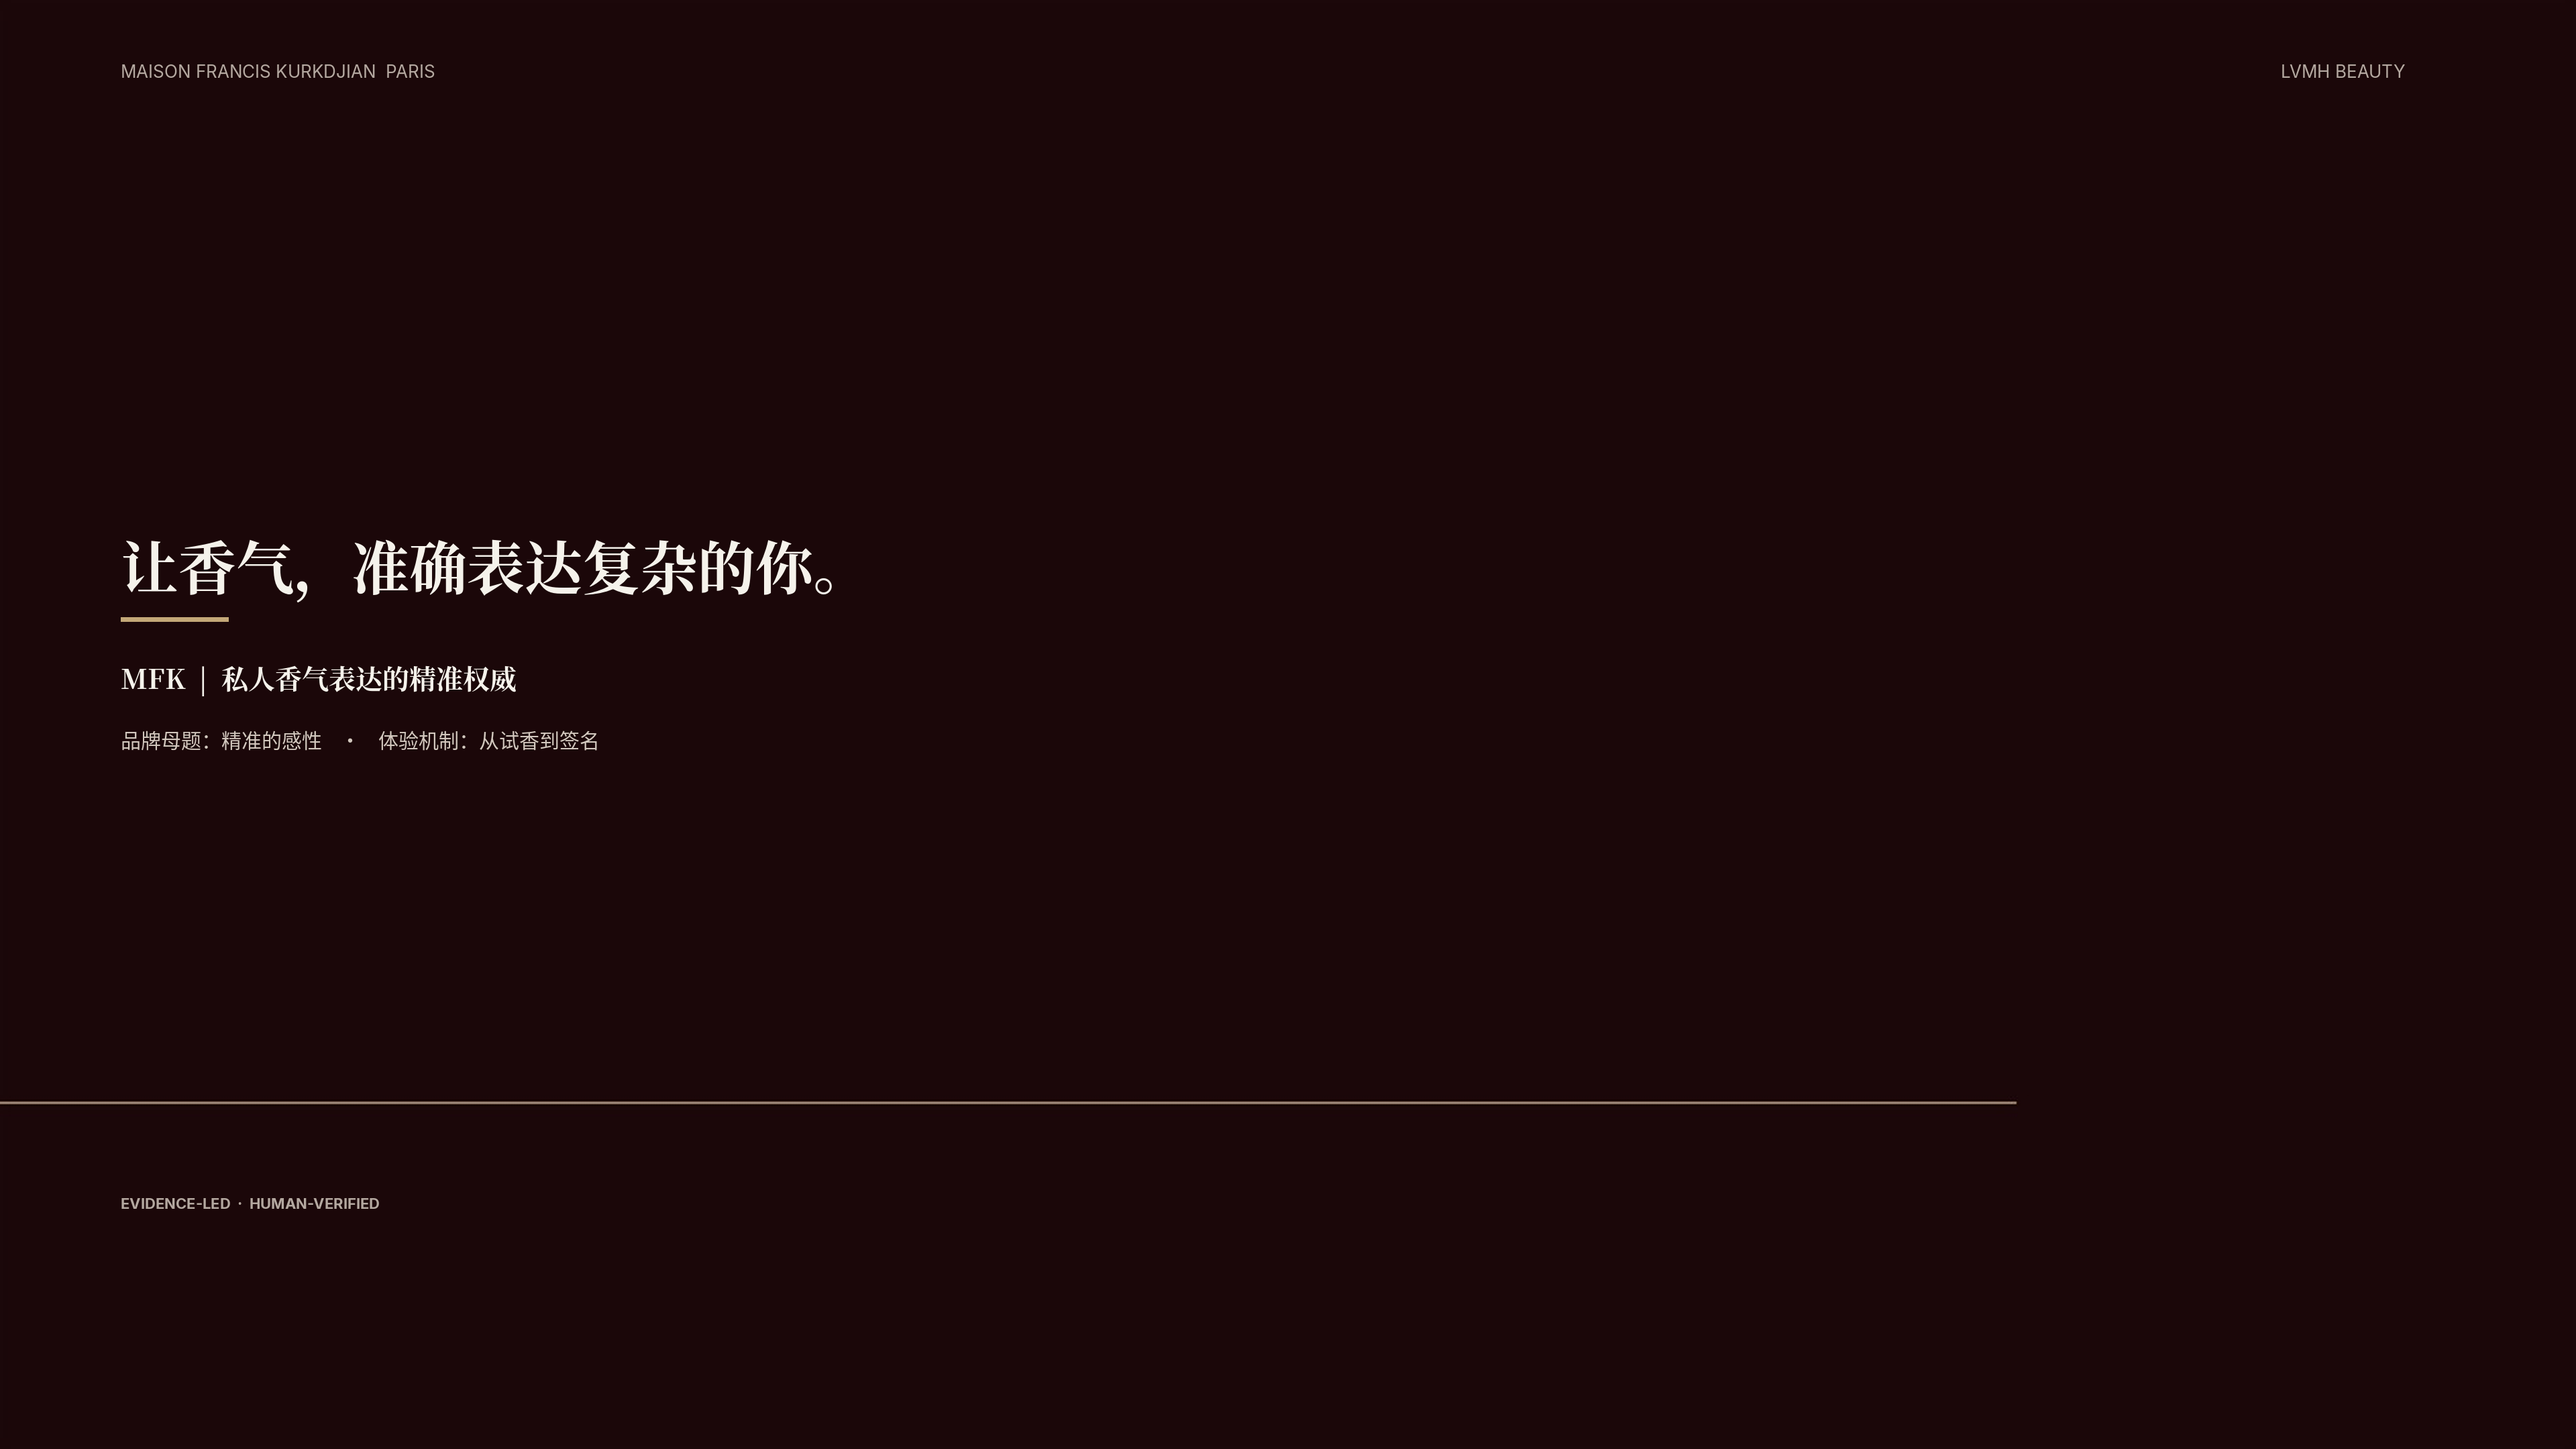
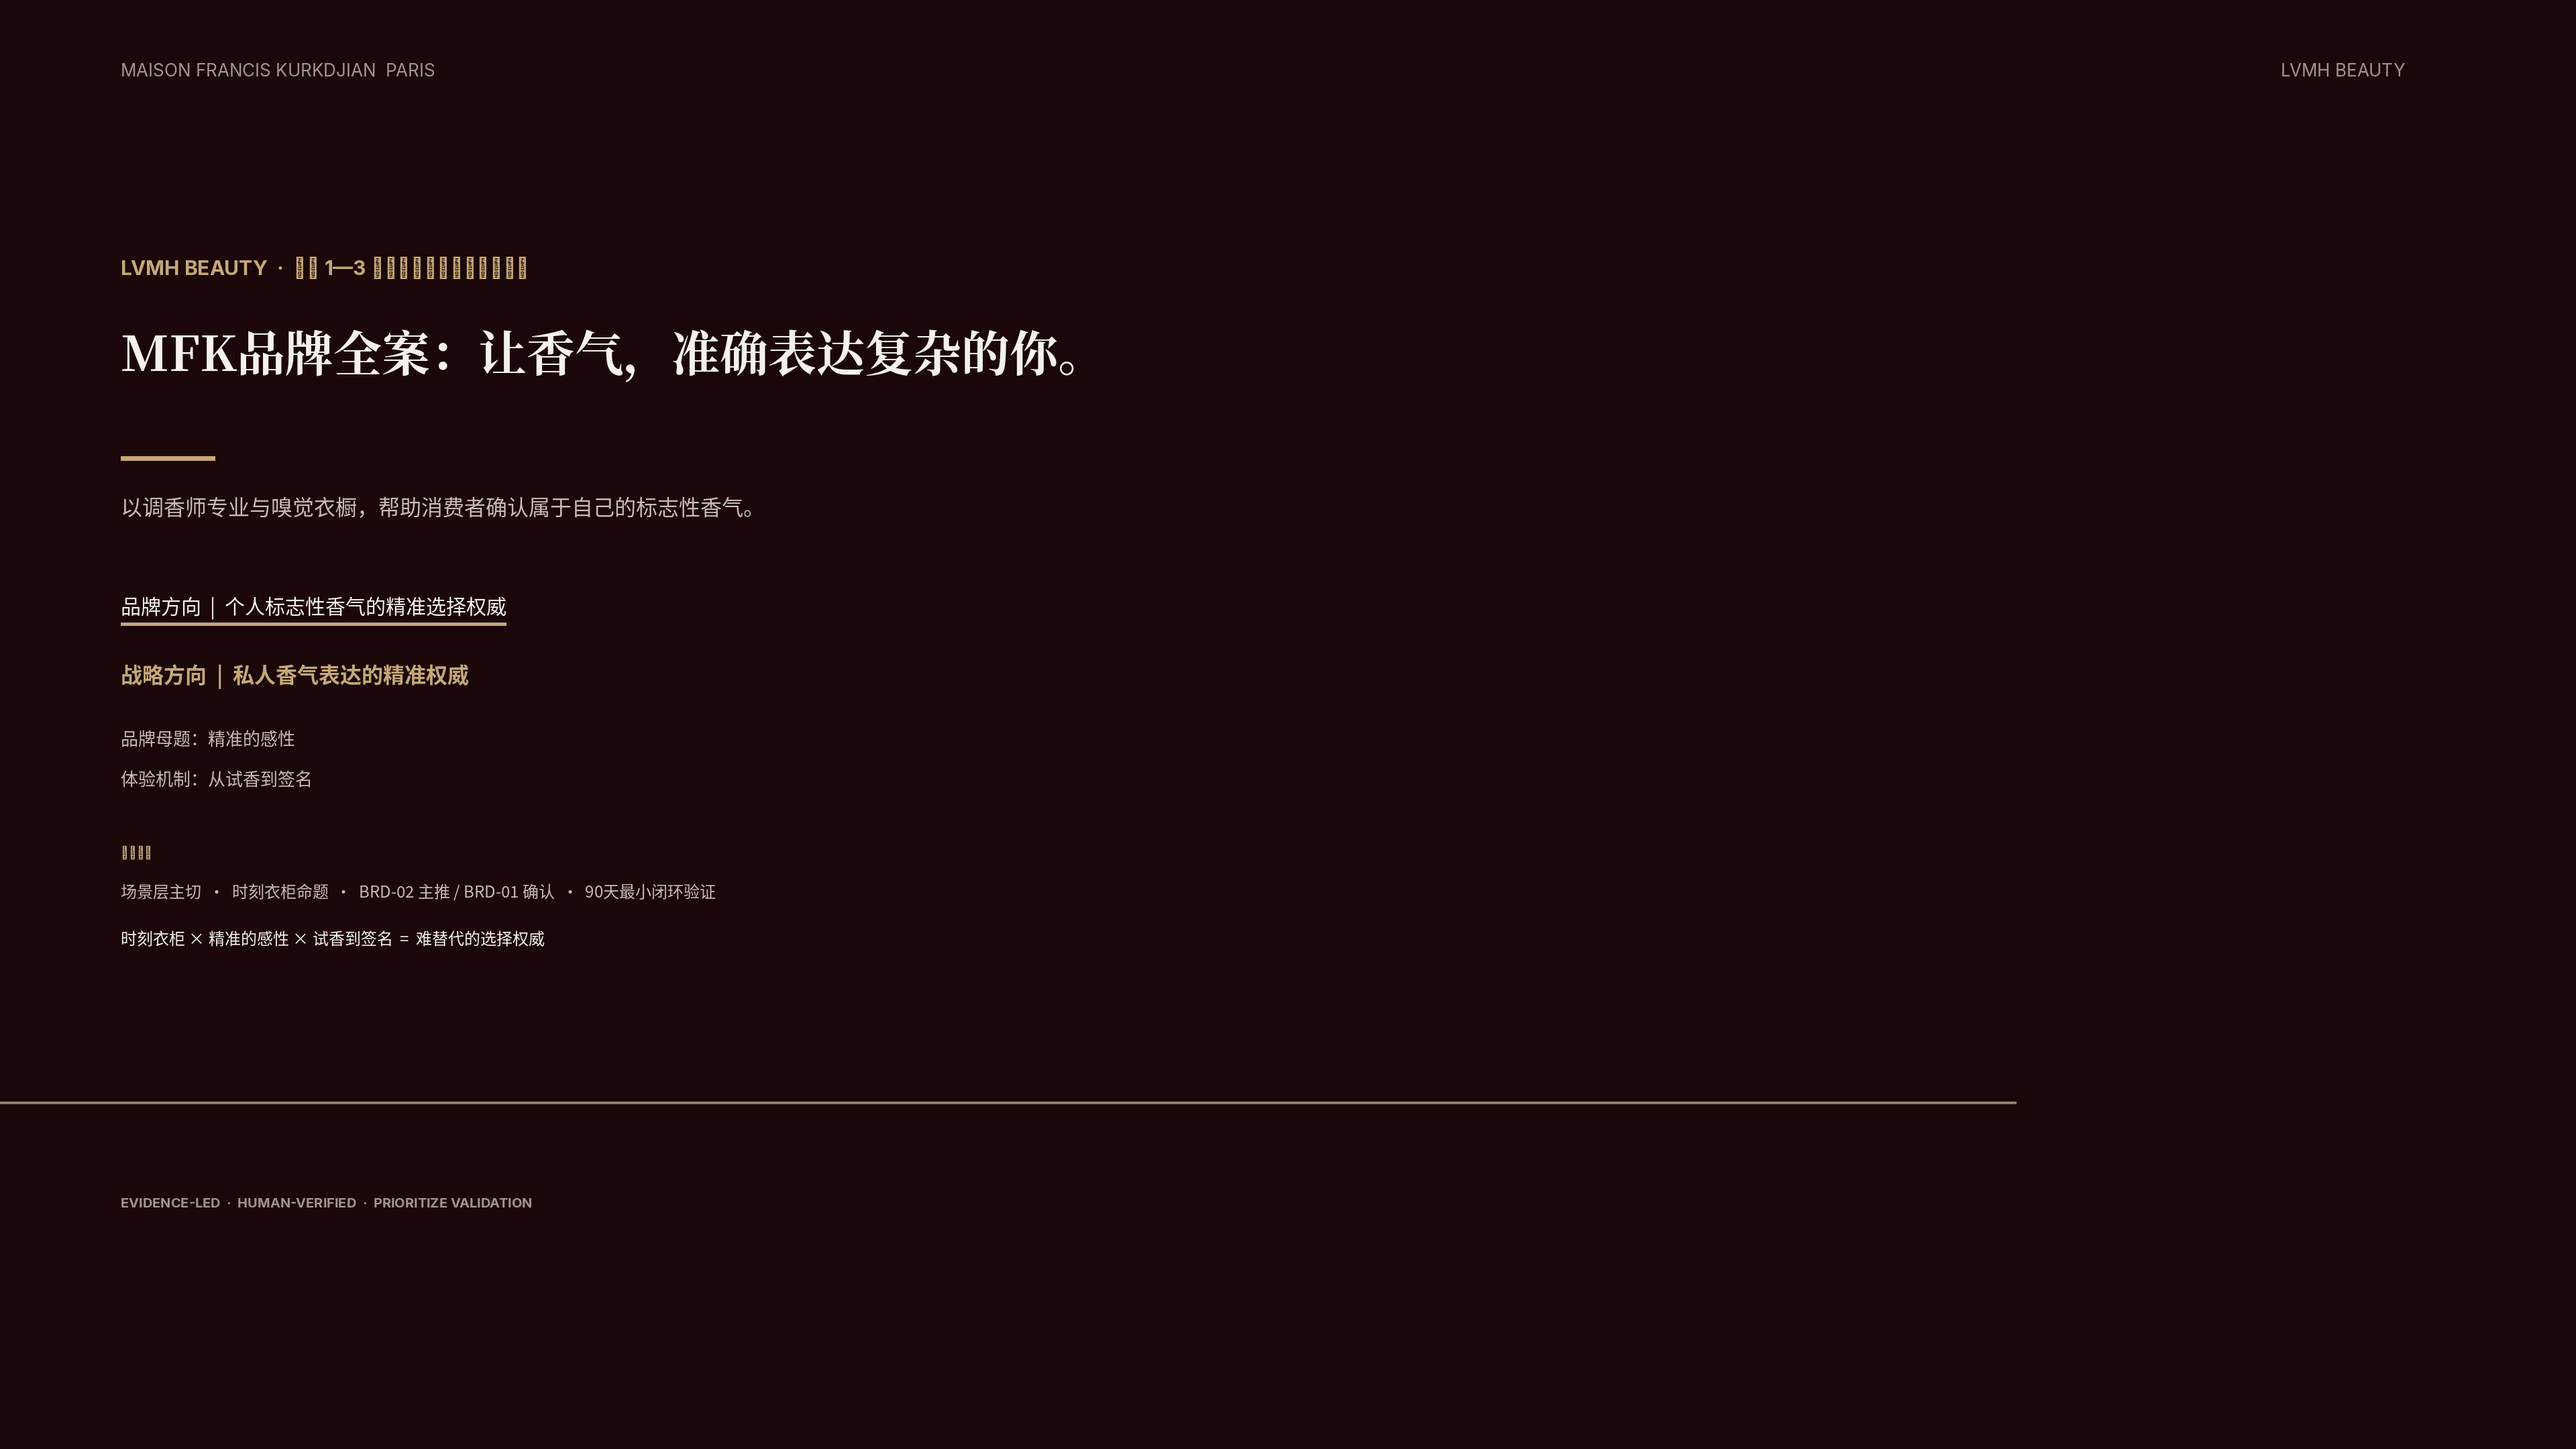
Densify ending slide to match cover information hierarchy.
Restore full brief stack on the dark close page without a page number:
project line, promise, directions, motif, experience, and system close.

diff --git a/mfk-slides/src/gen_ending_dense.py b/mfk-slides/src/gen_ending_dense.py
@@ -1,0 +1,141 @@
+#!/usr/bin/env python3
+"""Ending slide — denser hierarchy on dark bg, no page number."""
+from pathlib import Path
+from PIL import Image, ImageDraw, ImageFont
+
+OUT = Path("/workspace/mfk-slides")
+ART = Path("/opt/cursor/artifacts")
+BG = Path("/home/ubuntu/.cursor/projects/workspace/assets/ea789c2c-218c-4b09-ab49-46393f3059c0.png")
+# fallback to previous dark bg if needed
+if not BG.exists():
+    BG = Path("/home/ubuntu/.cursor/projects/workspace/assets/49a9cc62-4bc4-4ae4-a911-53783998238c.png")
+
+W, H = 3840, 2160
+CREAM = (245, 242, 235)
+SOFT = (200, 188, 178)
+MUTED = (160, 148, 140)
+GOLD = (196, 168, 120)
+RED_SOFT = (200, 120, 120)
+
+
+def fonts():
+    s = "/usr/share/fonts/opentype/noto/NotoSerifCJK-Bold.ttc"
+    n = "/usr/share/fonts/opentype/noto/NotoSansCJK-Regular.ttc"
+    b = "/usr/share/fonts/opentype/noto/NotoSansCJK-Bold.ttc"
+    i = "/usr/share/fonts/truetype/inter/Inter-Regular.ttf"
+    ib = "/usr/share/fonts/truetype/inter/Inter-Bold.ttf"
+    return {
+        "brand": ImageFont.truetype(i, 26),
+        "eyebrow": ImageFont.truetype(ib, 30),
+        "hero": ImageFont.truetype(s, 72, index=2),
+        "support": ImageFont.truetype(n, 32, index=2),
+        "row": ImageFont.truetype(n, 30, index=2),
+        "row_b": ImageFont.truetype(b, 32, index=2),
+        "motif": ImageFont.truetype(n, 26, index=2),
+        "body": ImageFont.truetype(n, 24, index=2),
+        "label": ImageFont.truetype(ib, 18),
+        "foot": ImageFont.truetype(ib, 20),
+    }
+
+
+F = fonts()
+
+
+def wrap(d, text, xy, font, fill, max_w, lh):
+    x, y = xy
+    line = ""
+    for ch in text:
+        test = line + ch
+        if d.textlength(test, font=font) <= max_w:
+            line = test
+        else:
+            d.text((x, y), line, font=font, fill=fill)
+            y += lh
+            line = ch
+    if line:
+        d.text((x, y), line, font=font, fill=fill)
+    return y
+
+
+def build():
+    bg = Image.open(BG).convert("RGB").resize((W, H), Image.Resampling.LANCZOS)
+    img = bg.copy()
+    d = ImageDraw.Draw(img)
+    MX = 180
+
+    d.text((MX, 88), "MAISON FRANCIS KURKDJIAN  PARIS", font=F["brand"], fill=MUTED)
+    d.text((W - MX - 260, 88), "LVMH BEAUTY", font=F["brand"], fill=MUTED)
+
+    # denser stack — mirror cover hierarchy on dark
+    d.text(
+        (MX, 380),
+        "LVMH BEAUTY  ·  未来 1—3 年香氛美学与体验创新方案",
+        font=F["eyebrow"],
+        fill=GOLD,
+    )
+
+    wrap(
+        d,
+        "MFK品牌全案：让香气，准确表达复杂的你。",
+        (MX, 470),
+        F["hero"],
+        CREAM,
+        1900,
+        88,
+    )
+
+    d.rectangle([MX, 680, MX + 140, 686], fill=GOLD)
+
+    wrap(
+        d,
+        "以调香师专业与嗅觉衣橱，帮助消费者确认属于自己的标志性香气。",
+        (MX, 730),
+        F["support"],
+        SOFT,
+        1800,
+        46,
+    )
+
+    d.text((MX, 880), "品牌方向  |  个人标志性香气的精准选择权威", font=F["row"], fill=CREAM)
+    tw = d.textlength("品牌方向  |  个人标志性香气的精准选择权威", font=F["row"])
+    d.rectangle([MX, 928, MX + int(tw), 932], fill=GOLD)
+
+    d.text((MX, 980), "战略方向  |  私人香气表达的精准权威", font=F["row_b"], fill=GOLD)
+
+    d.text((MX, 1080), "品牌母题：精准的感性", font=F["motif"], fill=SOFT)
+    d.text((MX, 1140), "体验机制：从试香到签名", font=F["motif"], fill=SOFT)
+
+    d.text((MX, 1260), "系统收束", font=F["label"], fill=GOLD)
+    d.text(
+        (MX, 1310),
+        "场景层主切  ·  时刻衣柜命题  ·  BRD-02 主推 / BRD-01 确认  ·  90天最小闭环验证",
+        font=F["body"],
+        fill=SOFT,
+    )
+    d.text(
+        (MX, 1380),
+        "时刻衣柜 × 精准的感性 × 试香到签名  =  难替代的选择权威",
+        font=F["body"],
+        fill=CREAM,
+    )
+
+    # footer — no page number
+    d.text(
+        (MX, 1780),
+        "EVIDENCE-LED  ·  HUMAN-VERIFIED  ·  PRIORITIZE VALIDATION",
+        font=F["foot"],
+        fill=MUTED,
+    )
+
+    out = OUT / "mfk_00_ending.png"
+    img.save(out, "PNG")
+    img.resize((1920, 1080), Image.Resampling.LANCZOS).save(
+        OUT / "mfk_00_ending_1920.png", "PNG"
+    )
+    img.save(ART / "mfk_00_ending.png", "PNG")
+    img.save(ART / "mfk_00_ending_dense.png", "PNG")
+    print("saved", out)
+
+
+if __name__ == "__main__":
+    build()
